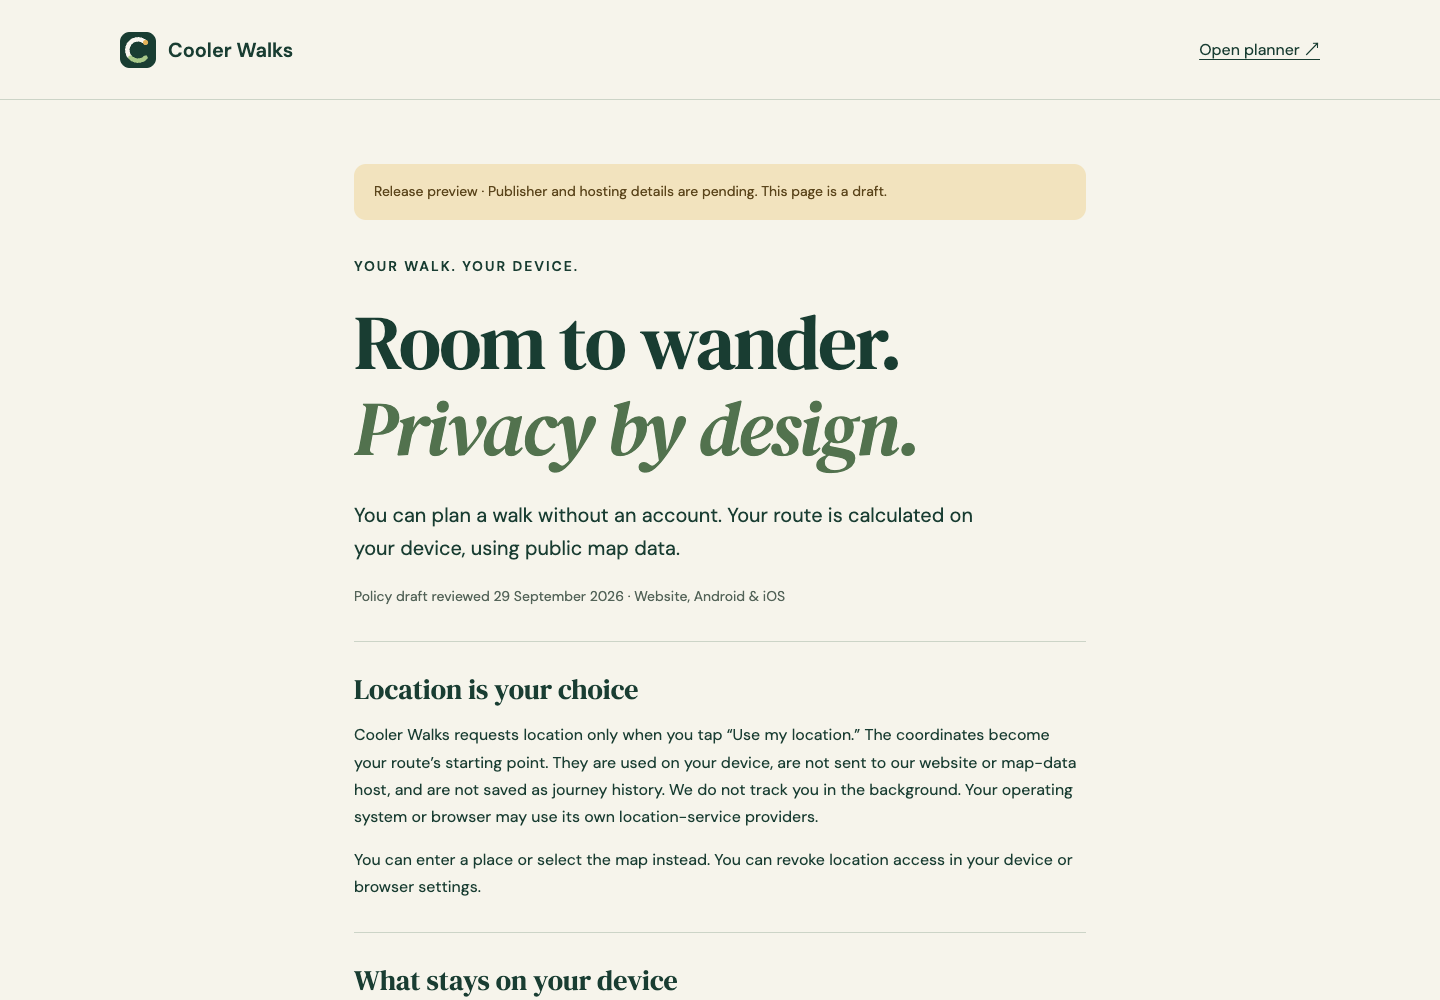
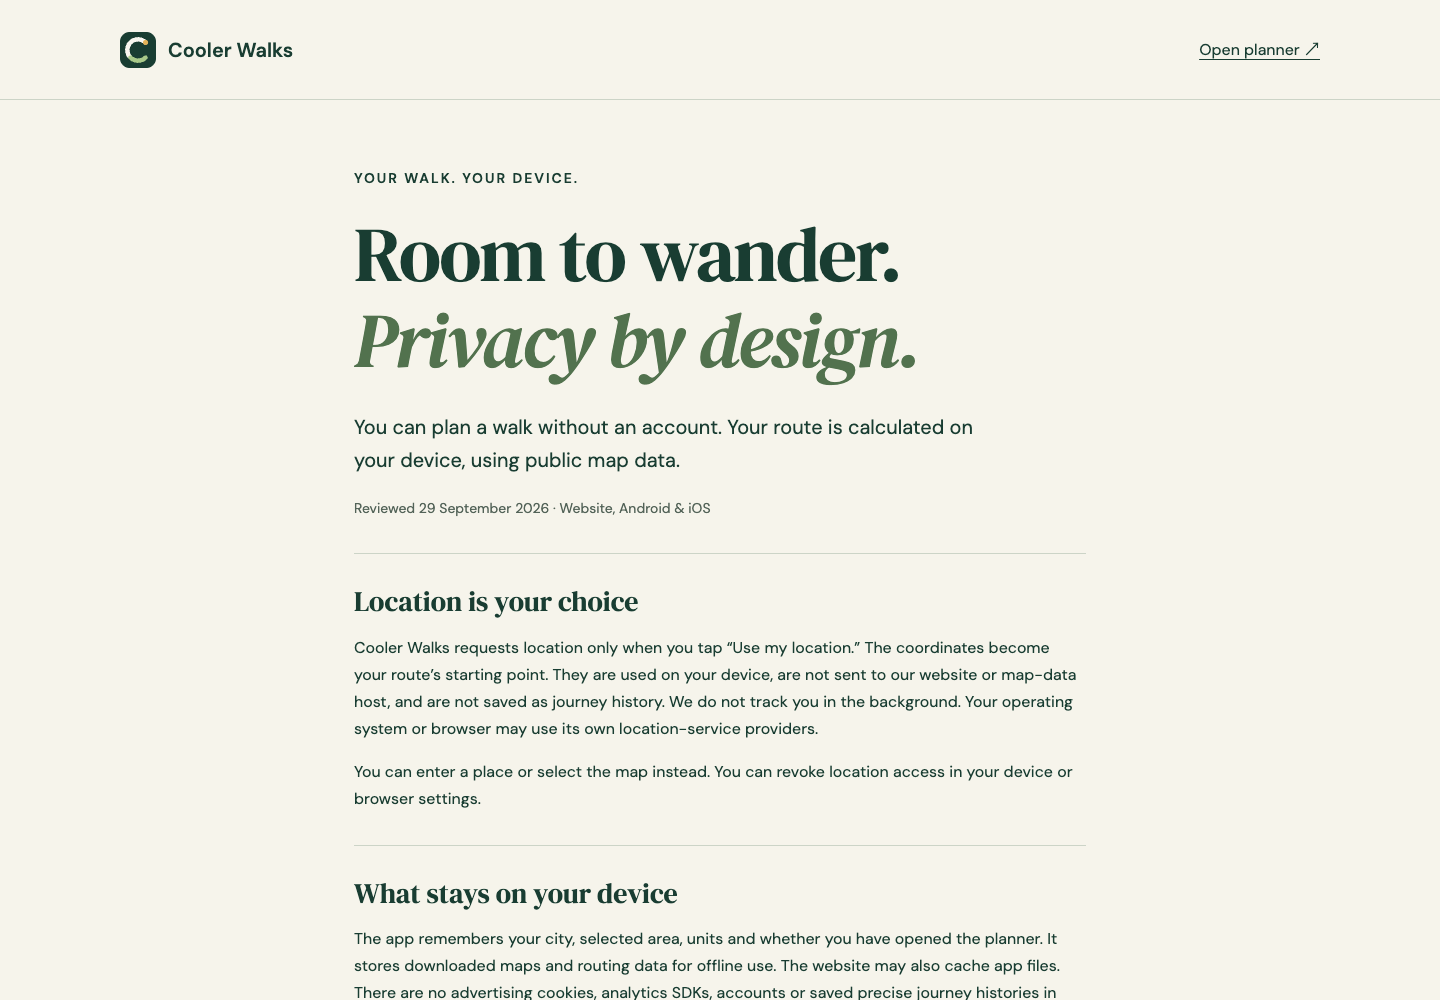
Configure registered domain and Netlify publication details

diff --git a/privacy/index.html b/privacy/index.html
@@ -26,7 +26,7 @@
         You can plan a walk without an account. Your route is calculated on your device, using
         public map data.
       </p>
-      <p class="updated">Policy draft reviewed 29 September 2026 · Website, Android & iOS</p>
+      <p class="updated">Reviewed 29 September 2026 · Website, Android & iOS</p>
       <section>
         <h2>Location is your choice</h2>
         <p>

diff --git a/docs/hosting.md b/docs/hosting.md
@@ -1,6 +1,6 @@
 # Hosting and domain launch
 
-Prepared 29 September 2026. **No domain purchased, public deployment created or store submission made.** The private GitHub repository remains the source of truth. The public support email is `knoerzerjohannes@protonmail.com`, as requested. “Cooler Walks” is the public brand; the legal publisher/account-holder identity still needs confirmation for store enrollment.
+Updated 29 September 2026. **`coolerwalks.ch` is registered in the owner's Infomaniak account. No public website deployment or store submission has been made.** The private GitHub repository remains the source of truth. The public support email is `knoerzerjohannes@protonmail.com`, as requested. “Cooler Walks” is the public brand; store enrollment and legal publisher details remain separate steps.
 
 ## Recommended launch setup
 
@@ -8,7 +8,7 @@ Use **Netlify for the website**, **coolerwalks.ch for its domain**, and **Cloudf
 
 The current complete web output is about **124 MB uncompressed**, including five compressed packs. Cambridge's map is **31,093,355 bytes**. That exceeds Cloudflare Pages' [25 MiB per-file limit](https://developers.cloudflare.com/pages/platform/limits/). Pages/Sites would need the large map moved to object storage or a revised data-loading format; do not upload the current output there unchanged. The existing `.openai/hosting.json` is only an unregistered static-output descriptor, not a live site.
 
-Netlify has a private-GitHub import workflow, atomic deployments, custom domains and HTTPS. Import through Git or use its CLI; its [manual drop-zone guidance](https://docs.netlify.com/manage/projects/add-new-project/) warns that large files can stall drag-and-drop uploads. The [current Free plan](https://www.netlify.com/pricing/) has 300 monthly credits and a hard usage limit; the Personal plan lists 1,000 credits. This data-heavy app can consume bandwidth quickly. Start with a controlled pilot, watch usage, and confirm the checkout price/limits before choosing a paid plan. A private source repository does **not** make the resulting website private.
+Netlify has a private-GitHub import workflow, atomic deployments, custom domains and HTTPS. Import through Git or use its CLI; its [manual drop-zone guidance](https://docs.netlify.com/manage/projects/add-new-project/) warns that large files can stall drag-and-drop uploads. The owner's existing team was verified on **Free Legacy: $0, 100 GB bandwidth and 300 build minutes per month, one concurrent build** on 29 September. It has no saved payment method; no plan change is needed. New accounts use different [credit-based pricing](https://www.netlify.com/pricing/). This data-heavy app can consume bandwidth quickly; monitor the actual team's usage. A private source repository does **not** make the resulting website private.
 
 R2 is recommended for a permanent, additive map archive so an older installed app can still retrieve its exact hashed files after a new website deploy. It charges for storage and operations, with [no direct egress charge](https://developers.cloudflare.com/r2/pricing/); account billing and limits still need review. The smaller launch alternative is to keep every released pack in each Netlify deployment, but that increases every deployment's size and requires explicit retention discipline.
 
@@ -23,7 +23,7 @@ whois -h whois.nic.ch -p 4343 coolerwalks.ch
 
 The registry [documents code 1 as available for registration](https://www.nic.ch/whois/domaincheck/). This is an availability check, not a reservation or a purchase. Recheck at checkout, including renewal price and taxes. `coolerwalks.com` and `coolerwalks.app` also returned RDAP 404/no registration record earlier that day, but their registrar availability and price were not confirmed. `.ch` is the user's preferred candidate. It does not change the app's international scope.
 
-Registration started in Infomaniak's browser checkout on 29 September. The basket contains only `coolerwalks.ch`, with the optional Domain Plus add-on removed. Before account/address verification, the displayed first-year price was **EUR 6 excluding tax**; the final tax, renewal price and renewal settings still need checking. The supplied email was accepted for account setup, which requires the owner's name, password and verification. Netlify also requires sign-in. No account creation, domain purchase, payment, DNS change or public deployment has been confirmed. Credentials and verification codes should be entered directly in the provider's browser, never recorded here.
+The owner completed Infomaniak account setup and checkout on 29 September. The registrar shows the `coolerwalks.ch` domain-registration order completed at **21:05**, and SWITCH's Domain Check now returns code 0, already registered. The prepared basket excluded Domain Plus; its pre-account quote of EUR 6 excluding tax is not a record of the final charge or renewal cost. Confirm the invoice and renewal settings in the owner's account. Netlify sign-in is complete; no DNS change or website deployment has been made yet. Credentials and verification codes belong directly in the provider's browser, never in this repository.
 
 ## Prepare locally
 
@@ -60,7 +60,7 @@ For updates, validate first, then push a focused commit. Netlify deploys the new
 4. Keep old hashed files for every supported app version. Never overwrite a hash-named file or use a destructive `sync --delete`. Do not rely on temporary GitHub artifact links or Netlify preview URLs as the app's permanent origin. App updates ship a new compatible catalogue; there is no remote arbitrary-code update channel.
 5. Build the native app with `VITE_AREA_BASE_URL=https://maps.coolerwalks.ch/packs/`, once that owned host is live. Re-upload the packs emitted by that exact build if compression changed. Node/zlib versions can change compressed bytes even for identical source data; filename/hash mismatches must not be ignored.
 
-Cloudflare credentials stay in the provider login, a local credential store or scoped CI secrets. No upload token is required by the app. Domain registration, DNS delegation and billable bucket creation have not been performed.
+Cloudflare credentials stay in the provider login, a local credential store or scoped CI secrets. No upload token is required by the app. The domain is registered; Cloudflare DNS delegation and billable bucket creation have not been performed.
 
 ## Live acceptance checks
 

diff --git a/docs/progress.md b/docs/progress.md
@@ -2,9 +2,9 @@
 
 ## Current milestone: domain and store-release preparation
 
-Added Netlify build configuration, a locally checked upload archive, security/cache/CORS headers, real 404s, hosted smoke checks and standalone privacy/help pages. The provided support email is configured. SWITCH's official Domain Check confirms `coolerwalks.ch` could be registered on 29 September 2026. No domain is reserved or purchased. The hosting guide explains the current 31 MB Cambridge asset constraint and durable retention of native map packs.
+Added Netlify build configuration, a locally checked upload archive, security/cache/CORS headers, real 404s, hosted smoke checks and standalone privacy/help pages. The provided support email is configured. `coolerwalks.ch` is now registered in the owner's Infomaniak account and configured as the intended public origin. The hosting guide explains the current 31 MB Cambridge asset constraint and durable retention of native map packs.
 
-Registration is now started: Infomaniak's basket contains only `coolerwalks.ch`, with paid add-ons removed and a provisional EUR 6 first-year price excluding tax. Account creation and Netlify sign-in require the owner to finish the browser steps. No payment, DNS change or deployment has occurred. The website remains available in the local preview.
+Infomaniak confirms the domain-registration order completed on 29 September; the official registry independently confirms registration. Netlify sign-in is complete and the existing Free Legacy plan is verified. No DNS change or website deployment has occurred yet. The public build now includes the selected domain and Netlify privacy details and passes the three release browser checks.
 
 The pre-launch check uncovered Linux browser-test failures. Full Chromium and request interception installed before page loading resolve them without removing assertions or screenshots. [Complete CI validation passed](https://github.com/gumbrich/cooler-walks/actions/runs/36614132370) on `ac58a9a`, including all twelve browser scenarios; Android and iOS builds passed for that revision too.
 
@@ -38,4 +38,4 @@ Added five reproducible packs, SHA-256 and size/schema verification, progress/ca
 
 ## Next useful milestone
 
-Register the chosen domain, confirm the public publisher identity and host privacy details, deploy the website/pack host, and create a signed internal tester build. Physical-phone testing was deferred at the user’s request. Benchmark memory, download recovery and map rendering on lower-end phones before further city expansion. Validate dated shadows and route access in the street; normalize Cambridge’s height units/unknown-height masks and add Basel building heights. Tree shade, terrain and weather remain separate roadmap items. Help pages now provide email feedback without a public posting system.
+Complete Netlify sign-in, confirm host privacy details, connect the registered domain and deploy the website/pack host, then create a signed internal tester build. Physical-phone testing was deferred at the user’s request. Benchmark memory, download recovery and map rendering on lower-end phones before further city expansion. Validate dated shadows and route access in the street; normalize Cambridge’s height units/unknown-height masks and add Basel building heights. Tree shade, terrain and weather remain separate roadmap items. Help pages now provide email feedback without a public posting system.
